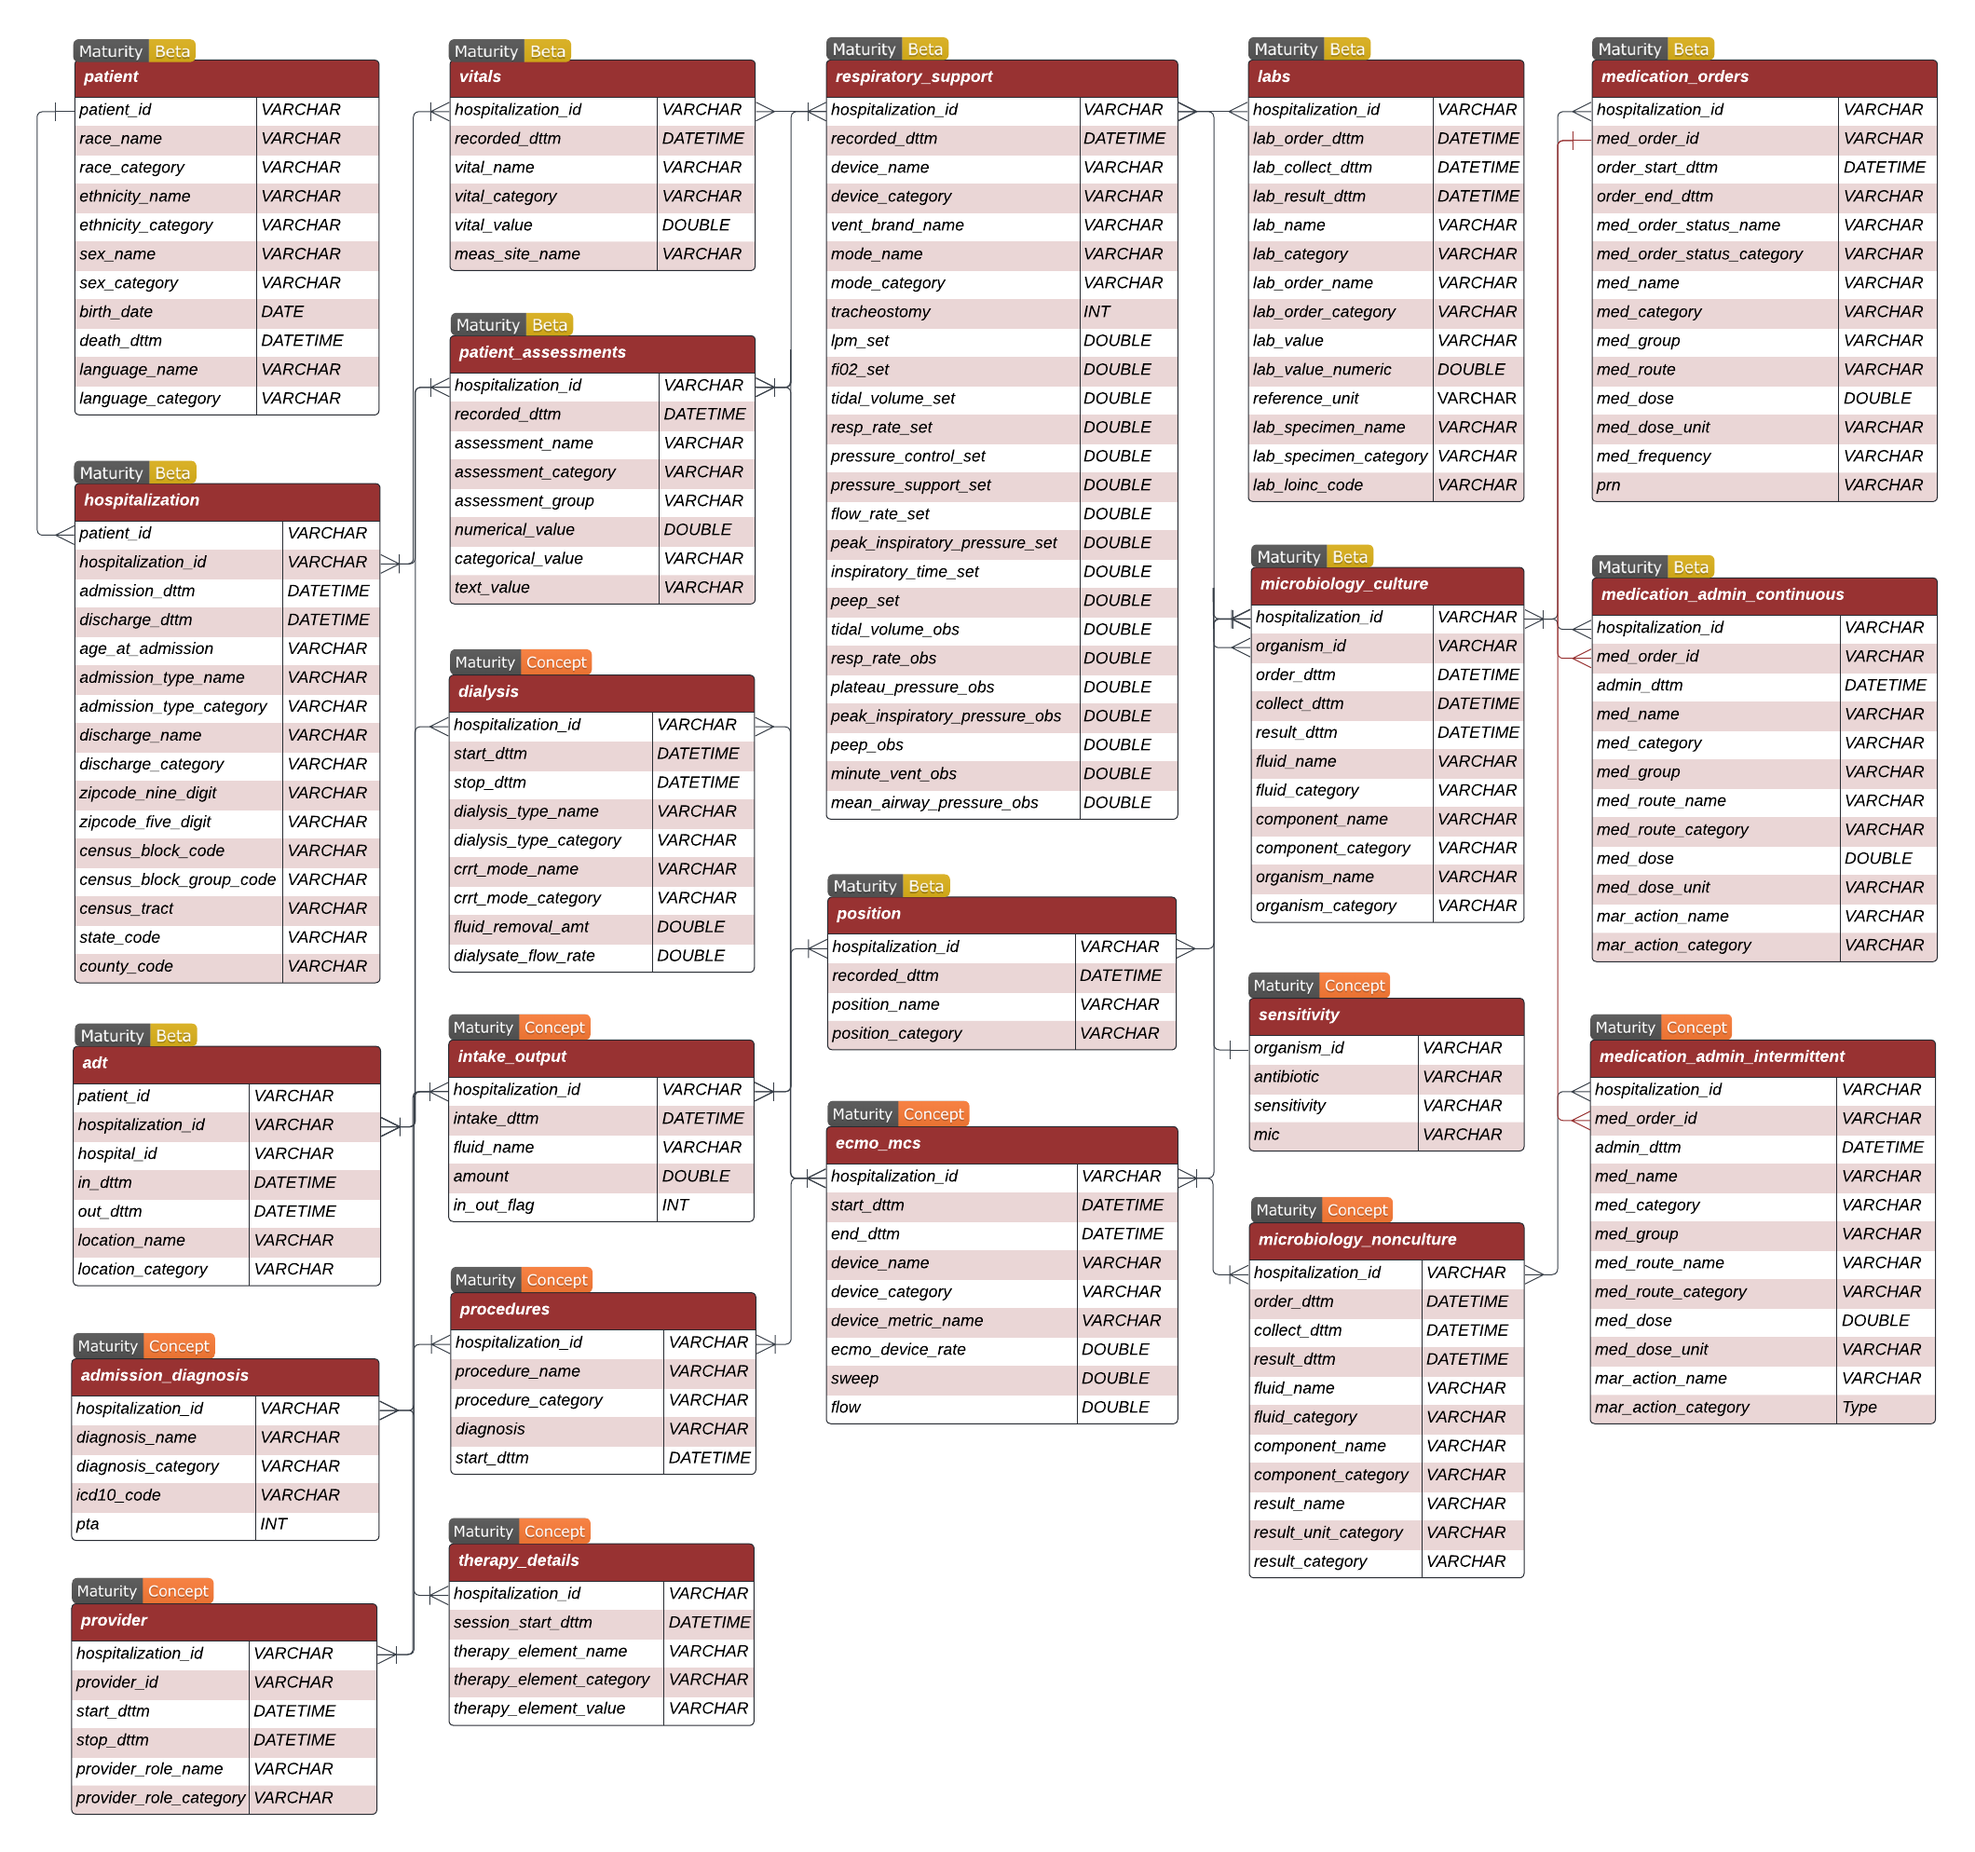
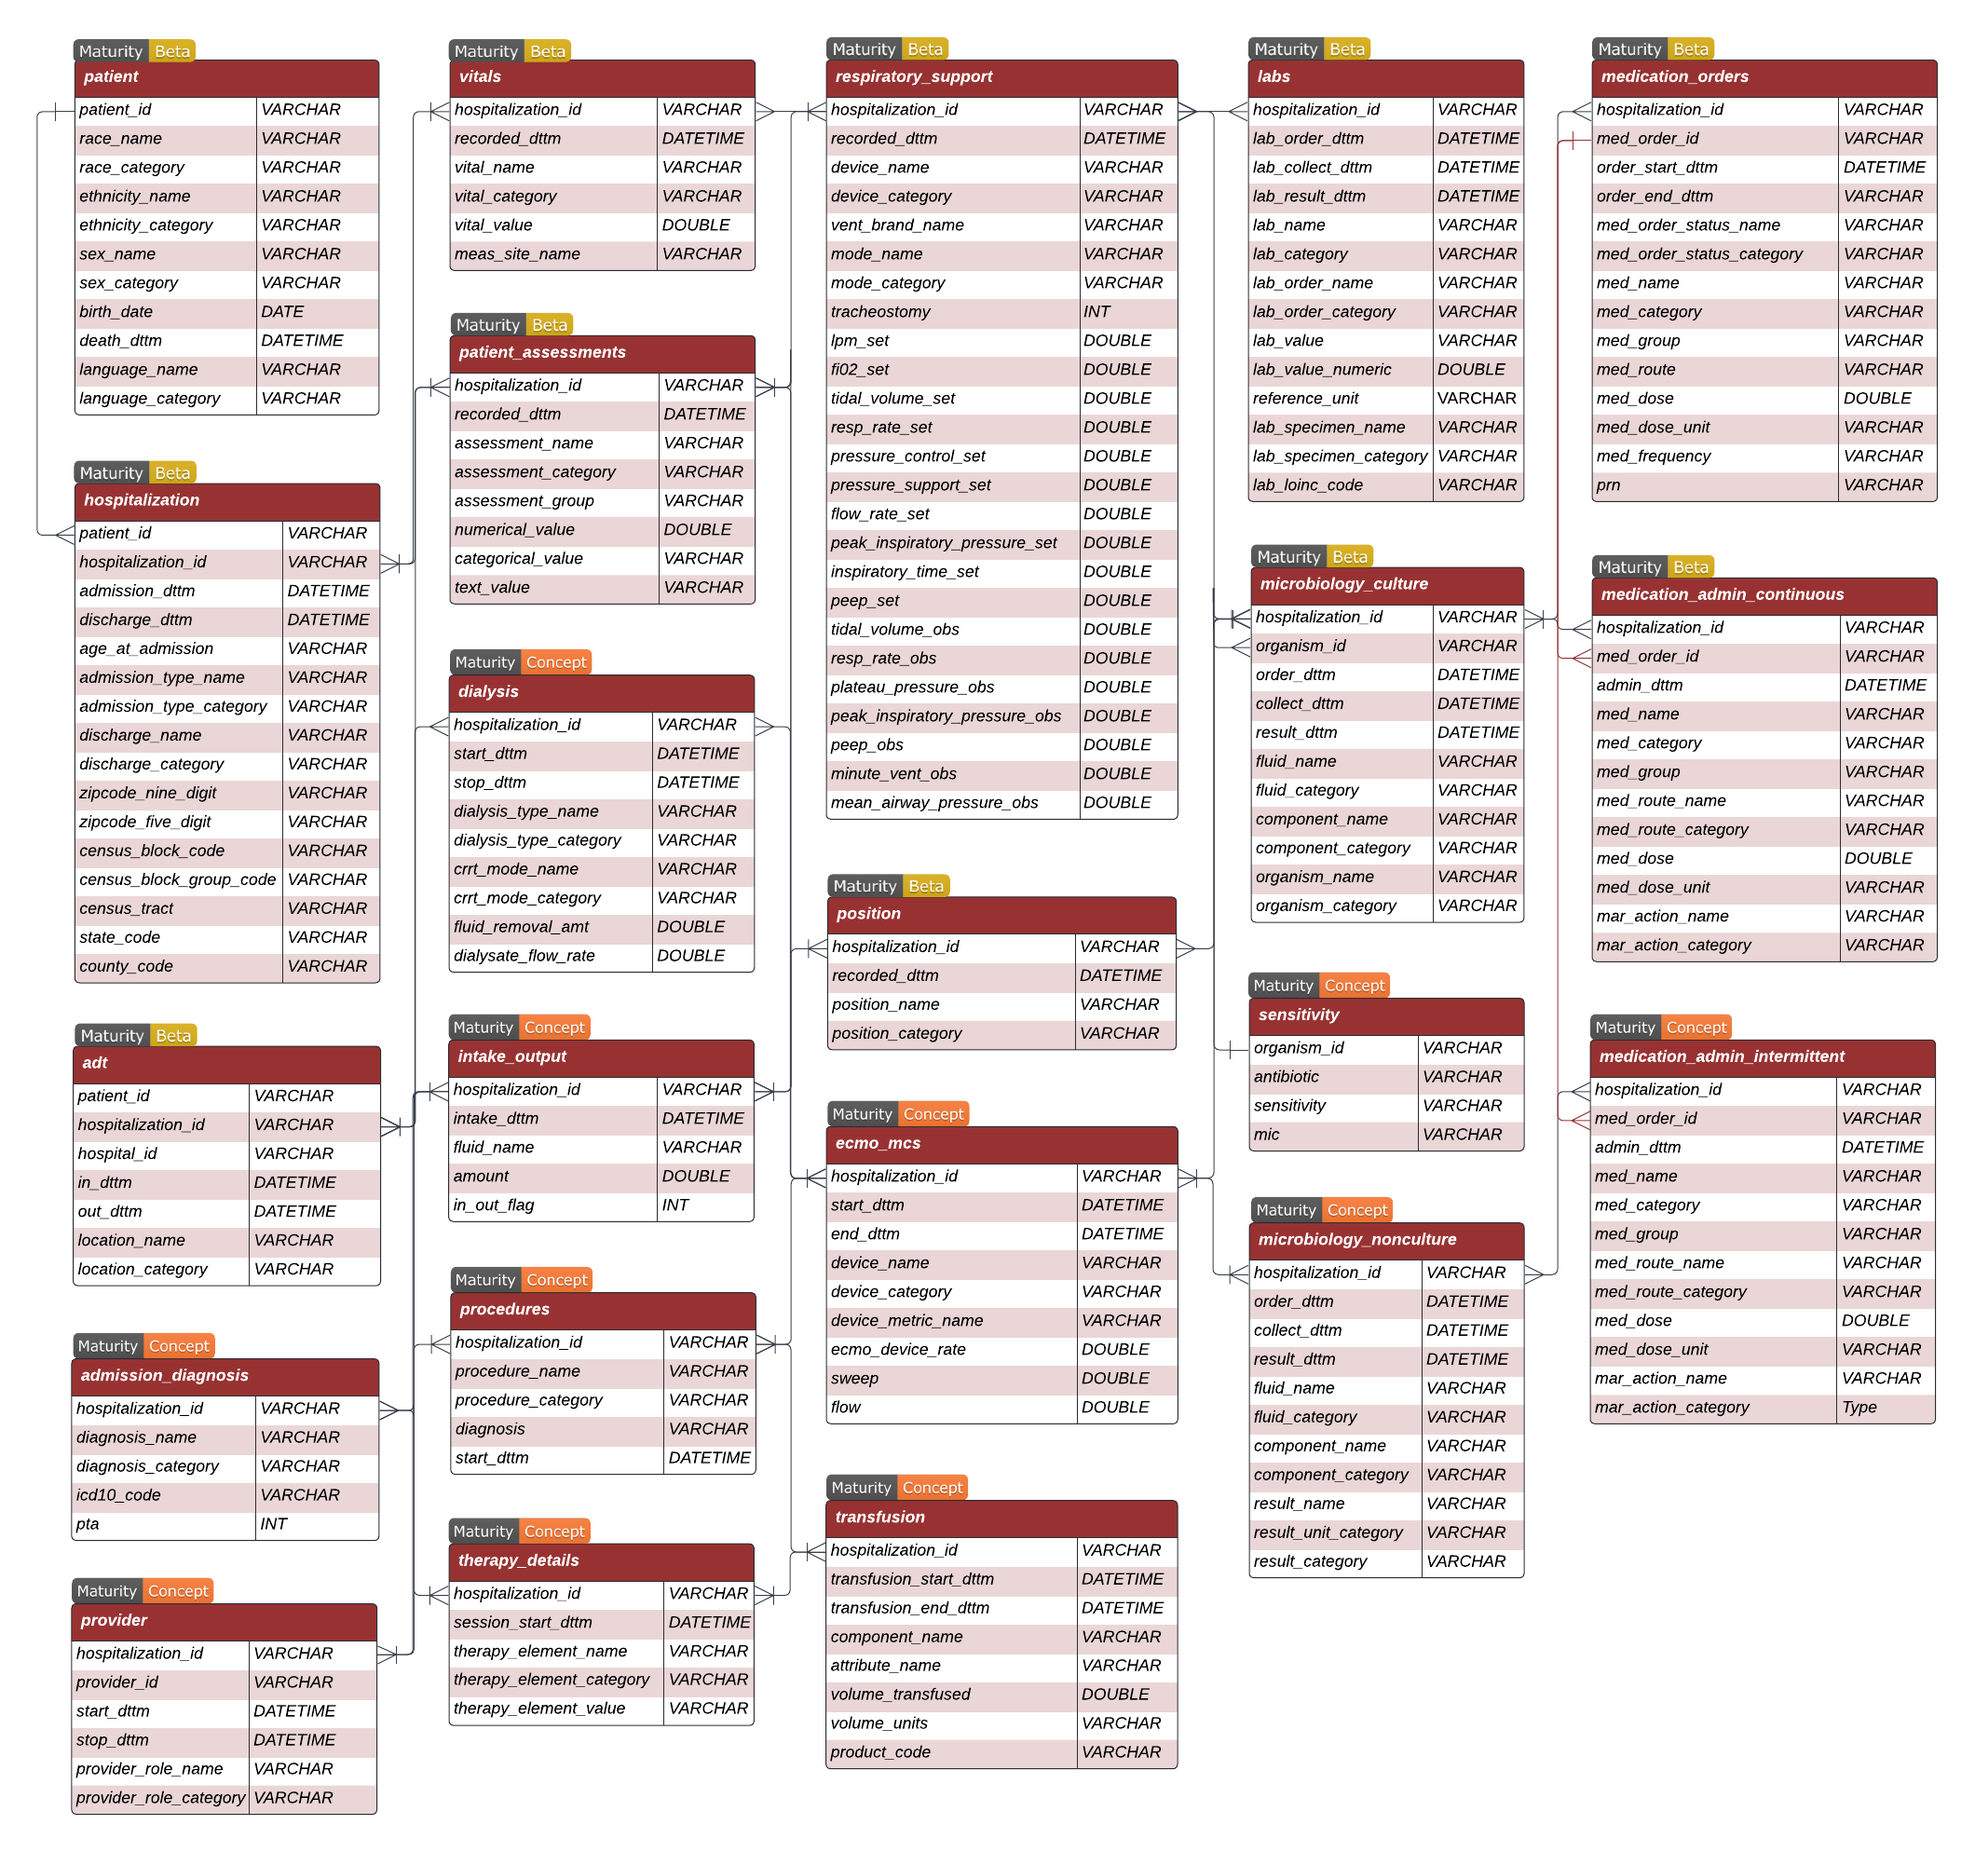
Added transfusion table to the data dictionary and the ERD image

Changed region(s): [[0.4047, 0.7797, 0.6226, 0.9668]]

diff --git a/docs/data-dictionary.html b/docs/data-dictionary.html
@@ -174,6 +174,7 @@ ul.task-list li input[type="checkbox"] {
   <li><a href="#sensitivity" id="toc-sensitivity" class="nav-link" data-scroll-target="#sensitivity">Sensitivity</a></li>
   <li><a href="#microbiology_nonculture" id="toc-microbiology_nonculture" class="nav-link" data-scroll-target="#microbiology_nonculture">Microbiology_Nonculture</a></li>
   <li><a href="#procedures" id="toc-procedures" class="nav-link" data-scroll-target="#procedures">Procedures</a></li>
+  <li><a href="#transfusion" id="toc-transfusion" class="nav-link" data-scroll-target="#transfusion">Transfusion</a></li>
   </ul></li>
   <li><a href="#future-proposed-tables" id="toc-future-proposed-tables" class="nav-link" data-scroll-target="#future-proposed-tables">Future proposed tables</a></li>
   </ul>
@@ -1712,7 +1713,7 @@ ul.task-list li input[type="checkbox"] {
 <td>organism_name</td>
 <td>VARCHAR</td>
 <td>Cleaned organism name string from the raw data. This field is not used for analysis.</td>
-<td>No restriction. Check this file for examples](https://github.com/clif-consortium/CLIF/blob/main/mCIDE/mCIDE_mapping_examples/clif_vocab_microbiology_name_organism_ucmc.csv)</td>
+<td>No restriction. <a href="https://github.com/clif-consortium/CLIF/blob/main/mCIDE/mCIDE_mapping_examples/clif_vocab_microbiology_name_organism_ucmc.csv">Check this file for examples</a></td>
 </tr>
 <tr class="even">
 <td>organism_category</td>
@@ -1870,6 +1871,77 @@ ul.task-list li input[type="checkbox"] {
 <td>DATETIME</td>
 <td>Date and time when the procedure was initiated</td>
 <td></td>
+</tr>
+</tbody>
+</table>
+</section>
+<section id="transfusion" class="level2">
+<h2 class="anchored" data-anchor-id="transfusion">Transfusion</h2>
+<p><a href="#maturity-levels-for-clif-tables"><img src="https://img.shields.io/badge/Maturity-Concept-orange.png" class="img-fluid"></a></p>
+<p>This table provides detailed information about transfusion events linked to specific hospitalizations.</p>
+<table class="table">
+<colgroup>
+<col style="width: 15%">
+<col style="width: 8%">
+<col style="width: 56%">
+<col style="width: 19%">
+</colgroup>
+<thead>
+<tr class="header">
+<th><strong>Variable Name</strong></th>
+<th><strong>Data Type</strong></th>
+<th><strong>Definition</strong></th>
+<th><strong>Permissible Values</strong></th>
+</tr>
+</thead>
+<tbody>
+<tr class="odd">
+<td>hospitalization_id</td>
+<td>VARCHAR</td>
+<td>Unique identifier linking the transfusion event to a specific hospitalization in the CLIF database.</td>
+<td>Unique identifier, e.g., <code>123456</code></td>
+</tr>
+<tr class="even">
+<td>transfusion_start_dttm</td>
+<td>DATETIME</td>
+<td>The date and time the transfusion of the blood component began.</td>
+<td>Example: <code>2024-12-03 08:30:00</code></td>
+</tr>
+<tr class="odd">
+<td>transfusion_end_dttm</td>
+<td>DATETIME</td>
+<td>The date and time the transfusion of the blood component ended.</td>
+<td>Example: <code>2024-12-03 10:00:00</code></td>
+</tr>
+<tr class="even">
+<td>component_name</td>
+<td>VARCHAR</td>
+<td>The name of the blood component transfused.</td>
+<td>E.g., <code>Red Blood Cells</code>, <code>Plasma</code>, <code>Platelets</code></td>
+</tr>
+<tr class="odd">
+<td>attribute_name</td>
+<td>VARCHAR</td>
+<td>Attributes describing modifications to the component.</td>
+<td>E.g., <code>Leukocyte Reduced</code>, <code>Irradiated</code></td>
+</tr>
+<tr class="even">
+<td>volume_transfused</td>
+<td>DOUBLE</td>
+<td>The volume of the blood component transfused.</td>
+<td>Example: <code>300</code></td>
+</tr>
+<tr class="odd">
+<td>volume_units</td>
+<td>VARCHAR</td>
+<td>The unit of measurement for the transfused volume.</td>
+<td>Example: <code>mL</code></td>
+</tr>
+<tr class="even">
+<td>product_code</td>
+<td>VARCHAR</td>
+<td>ISBT 128 Product Description Code representing the specific blood product.</td>
+<td>Example: <code>E0382</code></td>
 </tr>
 </tbody>
 </table>
